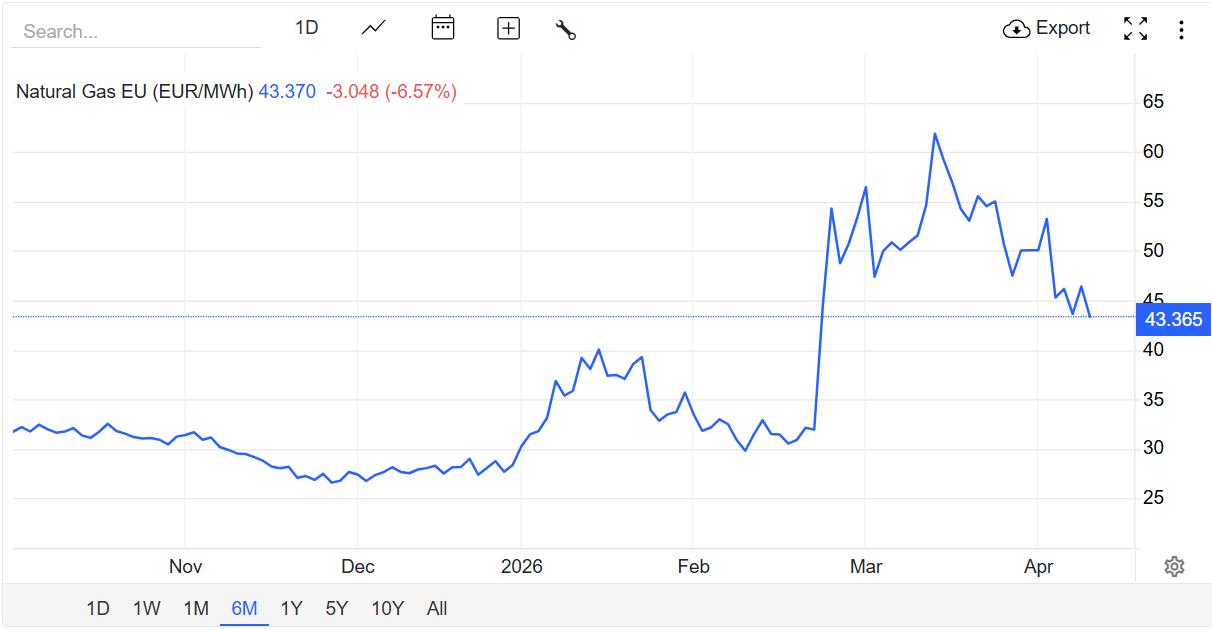
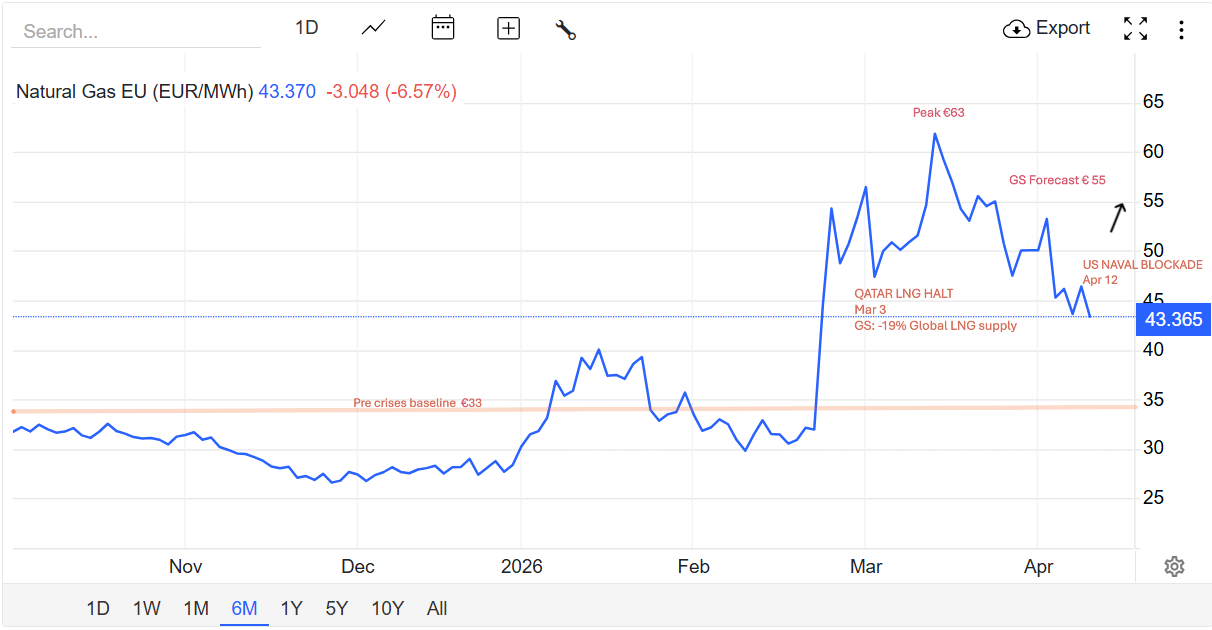
Europe_gas_storage_price_label_chat

diff --git a/src/components/ReportBody.js b/src/components/ReportBody.js
@@ -2,35 +2,48 @@
 
 import { useEffect, useRef } from 'react';
 
-// React's dangerouslySetInnerHTML never executes <script> tags.
-// This component re-creates and appends every script found in the HTML
-// after the content mounts — fixing charts that only show on hard reload.
+function loadScript(src) {
+  return new Promise((resolve, reject) => {
+    // If already loaded, resolve immediately
+    if (document.querySelector(`script[src="${src}"]`)) {
+      resolve();
+      return;
+    }
+    const s = document.createElement('script');
+    s.src = src;
+    s.onload = resolve;
+    s.onerror = reject;
+    document.head.appendChild(s);
+  });
+}
+
+async function executeScripts(container) {
+  const scripts = Array.from(container.querySelectorAll('script'));
+
+  // Separate external (src) scripts from inline scripts
+  const externalScripts = scripts.filter(s => s.src);
+  const inlineScripts = scripts.filter(s => !s.src);
+
+  // Load all external scripts first (in order), waiting for each
+  for (const s of externalScripts) {
+    await loadScript(s.src);
+  }
+
+  // Then execute all inline scripts
+  for (const s of inlineScripts) {
+    const newScript = document.createElement('script');
+    newScript.textContent = s.textContent;
+    s.parentNode.replaceChild(newScript, s);
+  }
+}
+
 export default function ReportBody({ html }) {
   const ref = useRef(null);
 
   useEffect(() => {
     if (!ref.current) return;
-
-    const container = ref.current;
-
-    // Find all <script> elements injected via innerHTML
-    const scripts = Array.from(container.querySelectorAll('script'));
-
-    scripts.forEach(oldScript => {
-      const newScript = document.createElement('script');
-
-      // Copy all attributes (src, type, etc.)
-      Array.from(oldScript.attributes).forEach(attr => {
-        newScript.setAttribute(attr.name, attr.value);
-      });
-
-      // Copy inline script content
-      newScript.textContent = oldScript.textContent;
-
-      // Replace old (inert) script with the new executable one
-      oldScript.parentNode.replaceChild(newScript, oldScript);
-    });
-  }, [html]); // re-run if the report content changes
+    executeScripts(ref.current);
+  }, [html]);
 
   return (
     <div

diff --git a/content/reports/european_gas_storage_2026.md b/content/reports/european_gas_storage_2026.md
@@ -66,74 +66,8 @@ The problem is structural, not uniform. Spain holds 40% of total EU LNG regasifi
 
 <div style="margin:28px 0 48px;font-family:Arial,sans-serif;">
 <div style="font-size:11px;font-weight:700;text-transform:uppercase;letter-spacing:1.4px;color:#1C2B3A;margin-bottom:3px;">TTF Natural Gas EU — Annotated Price Path (EUR/MWh)</div>
-<div style="font-size:10.5px;color:#8C9BAA;margin-bottom:10px;">Nov 2025–Apr 14, 2026 · Source: Google Finance. Annotations: Goldman Sachs, CNBC, Reuters.</div>
-<div style="display:flex;gap:20px;margin-bottom:10px;flex-wrap:wrap;">
-<div style="display:flex;align-items:center;gap:6px;font-size:10px;color:#4A5568;"><svg width="22" height="10"><line x1="0" y1="5" x2="22" y2="5" stroke="#8AAEC8" stroke-width="1.5" stroke-dasharray="6 4"/></svg>Pre-crisis baseline (€33.5)</div>
-<div style="display:flex;align-items:center;gap:6px;font-size:10px;color:#4A5568;"><svg width="10" height="10"><polygon points="5,0 10,10 0,10" fill="#B03A2E"/></svg>Goldman Sachs Apr-26 forecast (€55)</div>
-</div>
-<div style="position:relative;width:100%;max-width:760px;height:430px;">
-<img src="/images/ttf_screenshot.png" alt="TTF 6M price chart" style="position:absolute;top:0;left:0;width:100%;height:100%;display:block;" />
-<svg viewBox="0 0 760 430" xmlns="http://www.w3.org/2000/svg" style="position:absolute;top:0;left:0;width:100%;height:100%;overflow:visible;">
-
-  <!-- ── PRE-CRISIS BASELINE €33.5 — y=322 ── -->
-  <line x1="68" y1="322" x2="690" y2="322" stroke="#8AAEC8" stroke-width="1.5" stroke-dasharray="6 4" opacity="0.8"/>
-  <rect x="70" y="326" width="126" height="15" rx="2" fill="rgba(255,255,255,0.88)"/>
-  <text x="74" y="337" fill="#8AAEC8" font-size="9" font-family="Arial" font-weight="700">Pre-crisis baseline €33.5</text>
-
-  <!-- ── EVENT 1: QATAR LNG HALT — Mar 3 — x=543 ── -->
-  <!-- vertical rule -->
-  <line x1="543" y1="95" x2="543" y2="385" stroke="rgba(176,58,46,0.3)" stroke-width="1" stroke-dasharray="4 3"/>
-  <!-- dot on price line at ~€50, y=189 -->
-  <circle cx="543" cy="189" r="5" fill="#B03A2E" stroke="#fff" stroke-width="1.5"/>
-  <!-- label box anchored just LEFT of x=543, top of chart -->
-  <rect x="400" y="88" width="138" height="46" rx="3" fill="#B03A2E"/>
-  <text x="408" y="102" fill="#fff" font-size="8.5" font-family="Arial" font-weight="700">QATAR LNG HALT</text>
-  <text x="408" y="114" fill="rgba(255,255,255,0.9)" font-size="8" font-family="Arial">Mar 3, 2026</text>
-  <text x="408" y="126" fill="rgba(255,255,255,0.75)" font-size="7.5" font-family="Arial">GS: −19% global LNG supply</text>
-  <!-- small stem from box bottom to vertical rule -->
-  <line x1="543" y1="134" x2="543" y2="184" stroke="#B03A2E" stroke-width="1" opacity="0.5"/>
-
-  <!-- €63 peak — dot sits on chart peak, label to its right -->
-  <!-- x(peak ~Mar 6)≈555, y(63)=84 -->
-  <circle cx="557" cy="84" r="3.5" fill="#B03A2E" stroke="#fff" stroke-width="1.5"/>
-  <rect x="562" y="76" width="52" height="14" rx="2" fill="rgba(176,58,46,0.9)"/>
-  <text x="566" y="86" fill="#fff" font-size="8" font-family="Arial" font-weight="700">€63 peak</text>
-
-  <!-- ── EVENT 2: US NAVAL BLOCKADE — Apr 12 — x=694 ── -->
-  <!-- vertical rule -->
-  <line x1="694" y1="95" x2="694" y2="385" stroke="rgba(176,58,46,0.3)" stroke-width="1" stroke-dasharray="4 3"/>
-  <!-- dot on price line ~€46, y=229 -->
-  <circle cx="694" cy="229" r="5" fill="#B03A2E" stroke="#fff" stroke-width="1.5"/>
-  <!-- label box placed LEFT of x=694, does not cross the vertical rule -->
-  <rect x="548" y="248" width="140" height="32" rx="3" fill="#B03A2E"/>
-  <text x="556" y="262" fill="#fff" font-size="8.5" font-family="Arial" font-weight="700">US NAVAL BLOCKADE</text>
-  <text x="556" y="274" fill="rgba(255,255,255,0.9)" font-size="8" font-family="Arial">Apr 12, 2026</text>
-  <!-- stem from box top-right corner up to dot -->
-  <line x1="688" y1="248" x2="694" y2="234" stroke="#B03A2E" stroke-width="1" opacity="0.6"/>
-
-  <!-- ── GS FORECAST — Apr 14, €55 ── -->
-  <!-- triangle at x=700, y(55)=148 -->
-  <polygon points="700,138 708,154 692,154" fill="#B03A2E" opacity="0.9"/>
-  <!-- label box placed LEFT of triangle, above blockade box -->
-  <rect x="548" y="158" width="98" height="30" rx="3" fill="#B03A2E"/>
-  <text x="556" y="171" fill="#fff" font-size="8" font-family="Arial" font-weight="700">GS FORECAST</text>
-  <text x="556" y="183" fill="rgba(255,255,255,0.95)" font-size="9" font-family="Arial" font-weight="700">€55 / MWh</text>
-  <!-- stem from box right edge to triangle base -->
-  <line x1="646" y1="173" x2="692" y2="154" stroke="#B03A2E" stroke-width="1" opacity="0.6"/>
-
-  <!-- ── CURRENT PRICE €43.37 — Apr 14 close ── -->
-  <rect x="68" y="232" width="62" height="18" rx="2" fill="#1C2B3A"/>
-  <text x="99" y="245" fill="#fff" font-size="9.5" font-family="Arial" font-weight="700" text-anchor="middle">€43.37</text>
-  <line x1="130" y1="241" x2="690" y2="241" stroke="#1C2B3A" stroke-width="0.7" stroke-dasharray="3 4" opacity="0.3"/>
-
-  <!-- ── MID-DEC TROUGH €27 — x=251, y=371 ── -->
-  <circle cx="251" cy="371" r="3.5" fill="#1C2B3A" stroke="#fff" stroke-width="1.5"/>
-  <rect x="200" y="354" width="72" height="28" rx="2" fill="rgba(255,255,255,0.88)"/>
-  <text x="204" y="365" fill="#1C2B3A" font-size="8" font-family="Arial" font-weight="700">€27 trough</text>
-  <text x="204" y="376" fill="#8C9BAA" font-size="7" font-family="Arial">mid-Dec 2025</text>
-
-</svg>
-</div>
+<div style="font-size:10.5px;color:#8C9BAA;margin-bottom:10px;">Nov 2025–Apr 14, 2026 · Source: Google Finance.</div>
+<img src="/images/ttf_screenshot.png" alt="TTF Natural Gas EU price chart Nov 2025 to Apr 2026" style="width:100%;max-width:760px;display:block;" />
 </div>
 
 ## The View
